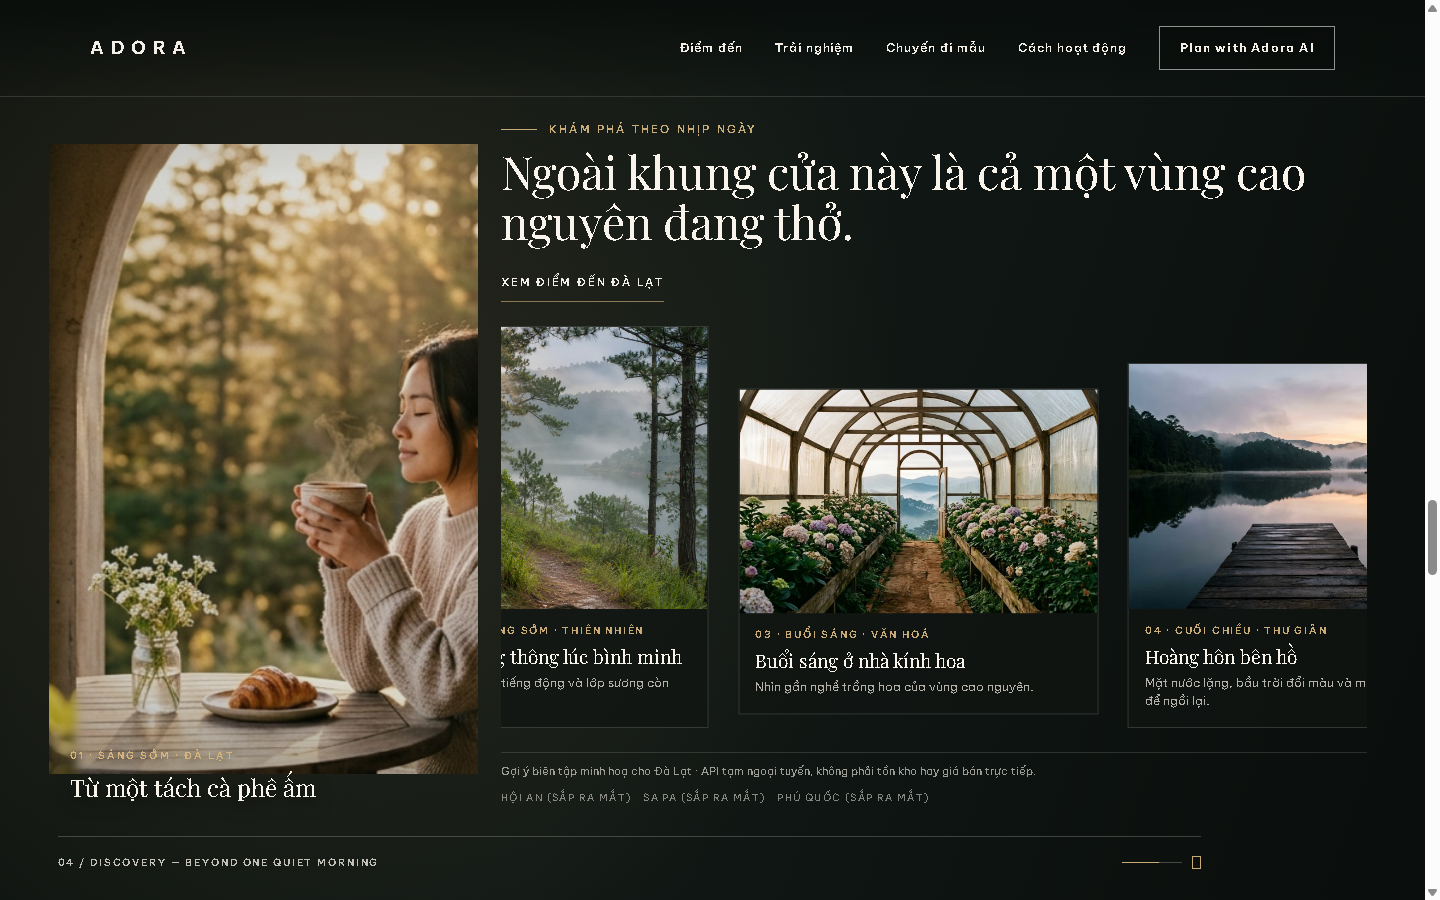
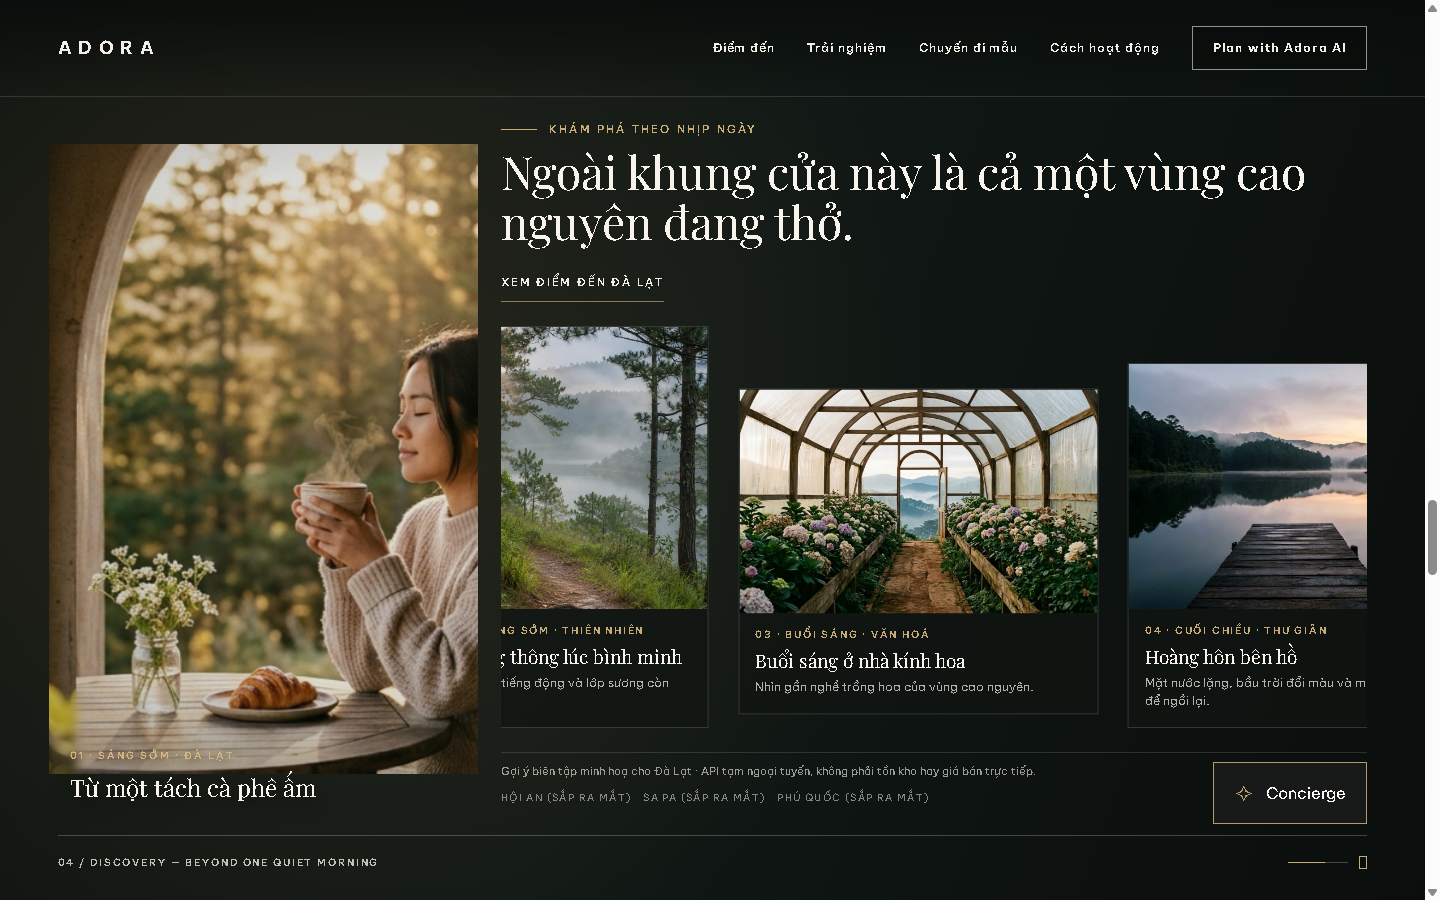
refactor(web): refine homepage hero composition and caption rail

diff --git a/apps/web/src/components/creative-lab/cinematic-journey/cinematic-journey-experience.tsx b/apps/web/src/components/creative-lab/cinematic-journey/cinematic-journey-experience.tsx
@@ -5,7 +5,6 @@ import { useEffect, useRef, useState, type ReactNode } from "react";
 
 import "@/app/creative-lab/typography-world/typography-world.css";
 import "@/app/creative-lab/cinematic-journey/cinematic-journey.css";
-import { ConciergeTrigger } from "@/components/concierge/concierge-trigger";
 import {
   DiscoveryRibbon,
   ReducedMotionDiscoverySection,
@@ -109,14 +108,12 @@ export function CinematicJourneyExperience({
   const [movementCaption, setMovementCaption] = useState(
     "01  /  IDENTITY — TYPOGRAPHY BECOMES LANDSCAPE",
   );
-  const [openingInteractive, setOpeningInteractive] = useState(true);
   const [discoveryInteractive, setDiscoveryInteractive] = useState(false);
   const [journeyInteractive, setJourneyInteractive] = useState(false);
   const [conciergeInteractive, setConciergeInteractive] = useState(false);
 
   const lastMovementRef = useRef<JourneyMovementId>("01");
   const lastFlagsRef = useRef({
-    opening: true,
     discovery: false,
     journey: false,
     concierge: false,
@@ -169,10 +166,6 @@ export function CinematicJourneyExperience({
         lastMovementRef.current = state.movement;
         setMovement(state.movement);
         setMovementCaption(state.movementCaption);
-      }
-      if (state.openingInteractive !== lastFlagsRef.current.opening) {
-        lastFlagsRef.current.opening = state.openingInteractive;
-        setOpeningInteractive(state.openingInteractive);
       }
       if (state.discoveryInteractive !== lastFlagsRef.current.discovery) {
         lastFlagsRef.current.discovery = state.discoveryInteractive;
@@ -471,13 +464,6 @@ export function CinematicJourneyExperience({
             <p className="cxp01-opening-subtitle">
               Một nơi chốn không thể chỉ nhìn qua màn hình.
             </p>
-            {isProduction ? (
-              <div style={{ marginTop: "1.25rem" }}>
-                <ConciergeTrigger href="/ai-planner" className="hero-primary-cta cxp03-opening-cta">
-                  Plan with Adora AI
-                </ConciergeTrigger>
-              </div>
-            ) : null}
           </div>
         </section>
 
@@ -780,15 +766,6 @@ export function CinematicJourneyExperience({
               </p>
               <span className="cxp01-mobile-opening-cue">Khám phá ADORA</span>
             </div>
-            {isProduction ? (
-              <ConciergeTrigger
-                href="/ai-planner"
-                className="hero-primary-cta cxp03-opening-cta"
-                tabIndex={openingInteractive ? 0 : -1}
-              >
-                Plan with Adora AI
-              </ConciergeTrigger>
-            ) : null}
           </section>
 
           <div ref={scrollCueRef} className="cxp01-scroll-cue" aria-hidden="true">

diff --git a/apps/web/src/app/creative-lab/cinematic-journey/cinematic-journey.css b/apps/web/src/app/creative-lab/cinematic-journey/cinematic-journey.css
@@ -564,40 +564,23 @@
 }
 
 .cxp03-production .cxp01-opening-overlay {
-  padding-bottom: clamp(7.25rem, 15vh, 9.5rem);
-  gap: 1rem;
+  padding-bottom: clamp(8.5rem, 17.5vh, 10.5rem);
 }
 
-.cxp03-opening-cta {
-  pointer-events: auto;
-  display: inline-flex;
-  align-items: center;
-  min-height: 2.75rem;
-  padding: 0.45rem 1.2rem;
-  border: 1px solid rgba(200, 171, 119, 0.65);
-  background: rgba(11, 14, 12, 0.52);
-  color: #f4efe6;
-  font-size: 0.7rem;
-  font-weight: 700;
-  letter-spacing: 0.16em;
-  text-transform: uppercase;
-  text-decoration: none;
-  backdrop-filter: blur(4px);
-  transition:
-    background-color 200ms ease,
-    border-color 200ms ease,
-    color 200ms ease;
-}
-
-.cxp03-opening-cta:hover {
-  background: #f4efe6;
-  border-color: #f4efe6;
-  color: #141816;
-}
-
-/* Offset production movement bar from bottom-right ConciergeFloatingTrigger */
+/* Full-grid bottom horizontal rail aligned symmetrically with header & outer hero frame */
 .cxp03-production .cxp01-chrome-footer {
-  padding-right: clamp(10.75rem, 16vw, 14rem);
+  padding: 0 clamp(1.25rem, 4vw, 3.75rem) clamp(1.15rem, 2.2vw, 1.85rem);
+}
+
+.cxp03-production .cxp01-chrome-footer-inner {
+  padding-top: clamp(0.85rem, 1.35vw, 1.15rem);
+  border-top: 1px solid rgba(244, 239, 230, 0.24);
+}
+
+/* Lift floating Concierge trigger cleanly above the full-width bottom rail on / */
+body:has(.cxp03-production) .concierge-floating {
+  right: clamp(1.25rem, 4vw, 3.75rem);
+  bottom: clamp(4.35rem, 8.5vh, 5.15rem);
 }
 
 /* Authored editorial rhythm in Discovery ribbon on desktop (>= 768px) */
@@ -650,12 +633,16 @@
   }
 
   .cxp03-production .cxp01-opening-overlay {
-    padding: 6rem 1.5rem 5.25rem;
-    gap: 1.15rem;
+    padding: 5.5rem 1.5rem 5.75rem;
   }
 
   .cxp03-production .cxp01-chrome-footer {
-    padding-right: 9.75rem;
+    padding: 0 1.25rem 1.15rem;
+  }
+
+  body:has(.cxp03-production) .concierge-floating {
+    right: max(1.25rem, env(safe-area-inset-right));
+    bottom: calc(4.4rem + env(safe-area-inset-bottom));
   }
 
   .cxp03-production .cxp02-discovery-layer {

diff --git a/apps/web/src/components/layout/site-header.tsx b/apps/web/src/components/layout/site-header.tsx
@@ -50,7 +50,13 @@ export function SiteHeader({ tone = "overlay", current }: Readonly<SiteHeaderPro
 
   return (
     <header className={headerClass}>
-      <div className="adora-container flex h-20 items-center justify-between lg:h-24">
+      <div
+        className={
+          isCinematic
+            ? "flex h-20 w-full items-center justify-between px-[clamp(1.25rem,4vw,3.75rem)] lg:h-24"
+            : "adora-container flex h-20 items-center justify-between lg:h-24"
+        }
+      >
         <Link
           href="/"
           className="text-base font-bold tracking-[0.36em] sm:text-lg"

diff --git a/docs/reports/ADORA_CXP03B_PRODUCTION_HOMEPAGE_REFINEMENT_REPORT.md b/docs/reports/ADORA_CXP03B_PRODUCTION_HOMEPAGE_REFINEMENT_REPORT.md
@@ -1,0 +1,54 @@
+# ADORA CXP-03B — Production Homepage Refinement Report
+
+## 1. Starting Branch & Baseline
+
+- **Worktree:** `F:\Coding\Adora System Mega Project\adora-system-cxp03`
+- **Branch:** `feature/adora-cxp03-homepage-integration`
+- **Starting HEAD (CXP-03A):** `98deb65d9d753d468e99ef0c42034042dd9ed4c1`
+- **Main Branch:** Untouched at `43304e3f70768553177dc410cd37351c079cd6a0`
+
+## 2. Exact Files Changed
+
+- `apps/web/src/components/creative-lab/cinematic-journey/cinematic-journey-experience.tsx`
+- `apps/web/src/components/layout/site-header.tsx`
+- `apps/web/src/app/creative-lab/cinematic-journey/cinematic-journey.css`
+- `scripts/verify_cxp03_homepage.mjs`
+- `docs/reports/assets/cxp03/*.png` (refreshed visual evidence)
+- `docs/reports/ADORA_CXP03B_PRODUCTION_HOMEPAGE_REFINEMENT_REPORT.md`
+
+## 3. Task A — Remove In-Hero CTA & Rebalance Opening Hero
+
+- Removed the in-hero `<ConciergeTrigger href="/ai-planner" className="hero-primary-cta cxp03-opening-cta">Plan with Adora AI</ConciergeTrigger>` from both the cinematic opening overlay (`.cxp01-opening-overlay`) and the reduced-motion opening caption (`.cxp01-reduced-caption`) in `cinematic-journey-experience.tsx`, along with unused imports/state and `.cxp03-opening-cta` CSS rules.
+- Restored `.cxp03-production .cxp01-opening-overlay` bottom padding (`clamp(8.5rem, 17.5vh, 10.5rem)` desktop; `5.5rem 1.5rem 5.75rem` mobile) to the approved CXP-02 proportions so the Vietnamese subtitle and `Cuộn để bước qua` cue (desktop) and `Một thế giới đang mở ra. / Khám phá ADORA` block (mobile) sit in natural balance without awkward empty space.
+- Preserved all existing AI Concierge entry points: `SiteHeader` (`Plan with Adora AI`), `ConciergeFloatingTrigger`, and Movement 06 finale CTA (`Mở ADORA Travel Concierge`).
+
+## 4. Task B — Bottom Horizontal Rail Alignment Refinement
+
+- **Root Cause Identified:** In CXP-03A, `.cxp03-production .cxp01-chrome-footer` carried an asymmetric right padding (`clamp(10.75rem, 16vw, 14rem)` desktop, `9.75rem` mobile) to avoid colliding with the floating Concierge button, which truncated the bottom horizontal hairline short of the right edge of the outer hero frame and header.
+- **Refinement Applied:**
+  - Restored symmetric full-grid horizontal padding (`clamp(1.25rem, 4vw, 3.75rem)` desktop, `1.25rem` mobile) on `.cxp03-production .cxp01-chrome-footer` and matched its top hairline (`1px solid rgba(244, 239, 230, 0.24)`) to the outer hero frame.
+  - Aligned `SiteHeader` (`tone="cinematic"`) inner horizontal padding to the exact same `clamp(1.25rem, 4vw, 3.75rem)` grid so the top wordmark/CTA, outer hero frame left/right borders, bottom horizontal rail, left movement caption, and right progress indicator lock onto one coherent architectural grid across viewports.
+  - Lifted `body:has(.cxp03-production) .concierge-floating` cleanly above the full-width bottom rail (`right: clamp(1.25rem, 4vw, 3.75rem); bottom: clamp(4.35rem, 8.5vh, 5.15rem)` desktop; `right: max(1.25rem, env(safe-area-inset-right)); bottom: calc(4.4rem + env(safe-area-inset-bottom))` mobile) so it never overlaps the rail or progress indicator.
+
+## 5. Verification Commands & Outcomes
+
+| Check | Command | Outcome |
+| :--- | :--- | :--- |
+| Unit Tests | `pnpm test` (`apps/web`) | Passed (`48/48`, 6 suites) |
+| Typecheck | `pnpm typecheck` (`apps/web`) | Passed (`0` errors) |
+| Lint | `pnpm lint` (`apps/web`) | Passed (`0` errors, `16` pre-existing `@next/next/no-img-element` warnings) |
+| Production Build | `pnpm build` (`apps/web`) | Passed (`22/22` routes on retry after Next.js `16.4.3` security advisory nudge) |
+| Production Homepage Verifier | `$env:CXP03_PORT="3103"; node scripts/verify_cxp03_homepage.mjs` | Passed (exit `0`, `0` console/page/network errors, `CLS: 0`, `LCP: 404 ms`, `LongTasks: 0 ms`, `hasInHeroCta: false`, `railAlignedWithFrame: true`, all 6 viewports `360`–`1920` zero overflow) |
+
+*Note on legacy `verify_concierge.mjs`:* Its historical `.hero-primary-cta` selector at `scrollY = 0` is intentionally superseded by the owner's removal of the in-hero CTA; Concierge open/close/Escape/scroll-preservation behavior on `/` remains verified by `scripts/verify_cxp03_homepage.mjs`.
+
+## 6. Visual Review Summary
+
+Inspected refreshed captures in `docs/reports/assets/cxp03/`:
+- **Desktop Opening (`01_home_identity.png`) & Reduced Motion (`16_reduced_motion.png`):** Clean, atmospheric ADORA photographic wordmark with subtitle and `Cuộn để bước qua` cue only — no in-hero CTA button. Top header edges, outer hero frame, and full-width bottom horizontal rail align pixel-accurately (`railAlignedWithFrame: true`).
+- **Desktop Discovery (`06_home_discovery_ribbon.png`) & Footer (`10_home_footer.png`):** Bottom rail spans full grid cleanly with balanced left caption and right progress indicator; Concierge floating trigger sits cleanly above the rail and hides automatically in Movement 06 and `SiteFooter`.
+- **Mobile Portrait (`11_mobile_opening.png`, `13_mobile_discovery.png`):** No awkward gap after hero CTA removal; bottom horizontal rail spans full width cleanly from left to right margin with balanced caption and gold progress marker.
+
+## 7. Owner Feedback Alignment
+
+Yes — both owner review issues are resolved while preserving the approved CXP-02 / CXP-03A creative direction, visual mood, narrative structure, and Concierge functionality.
